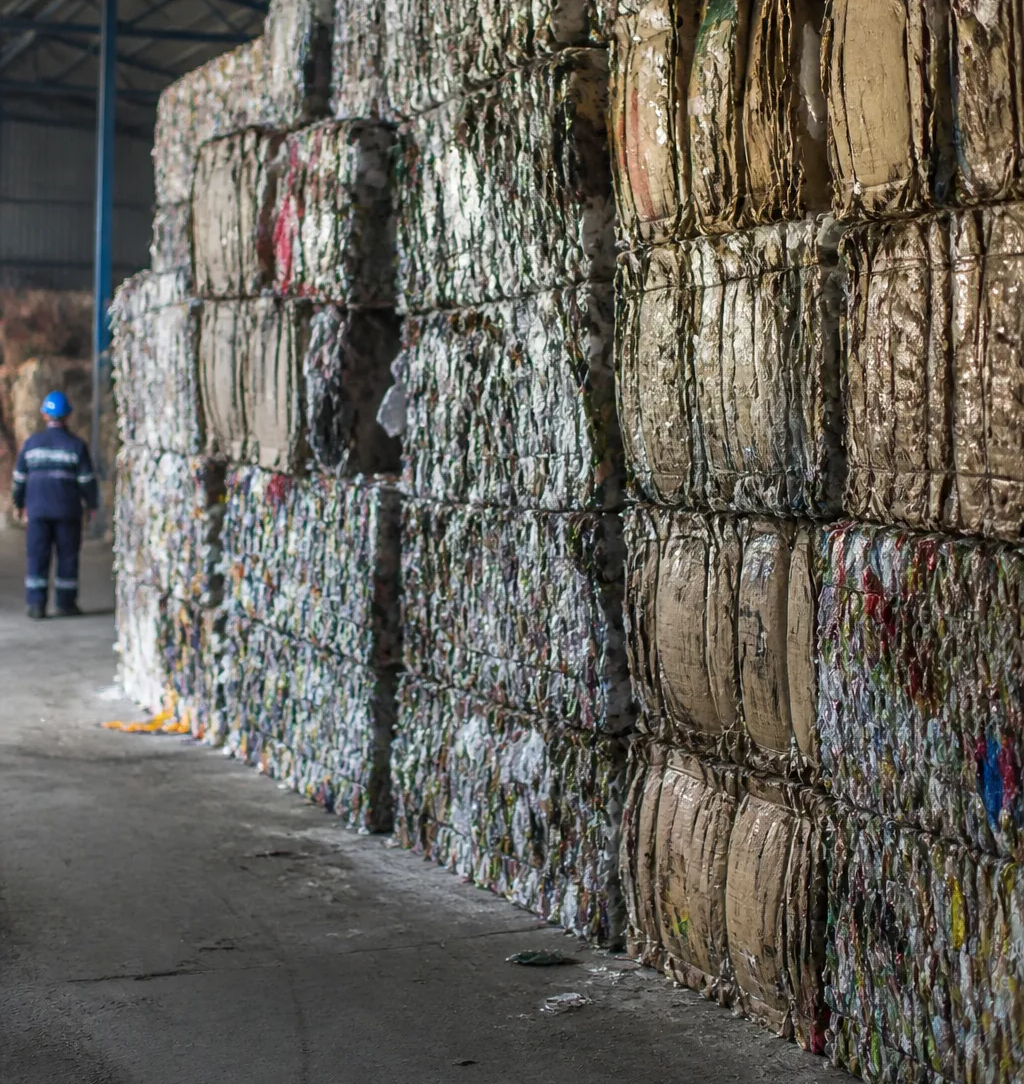
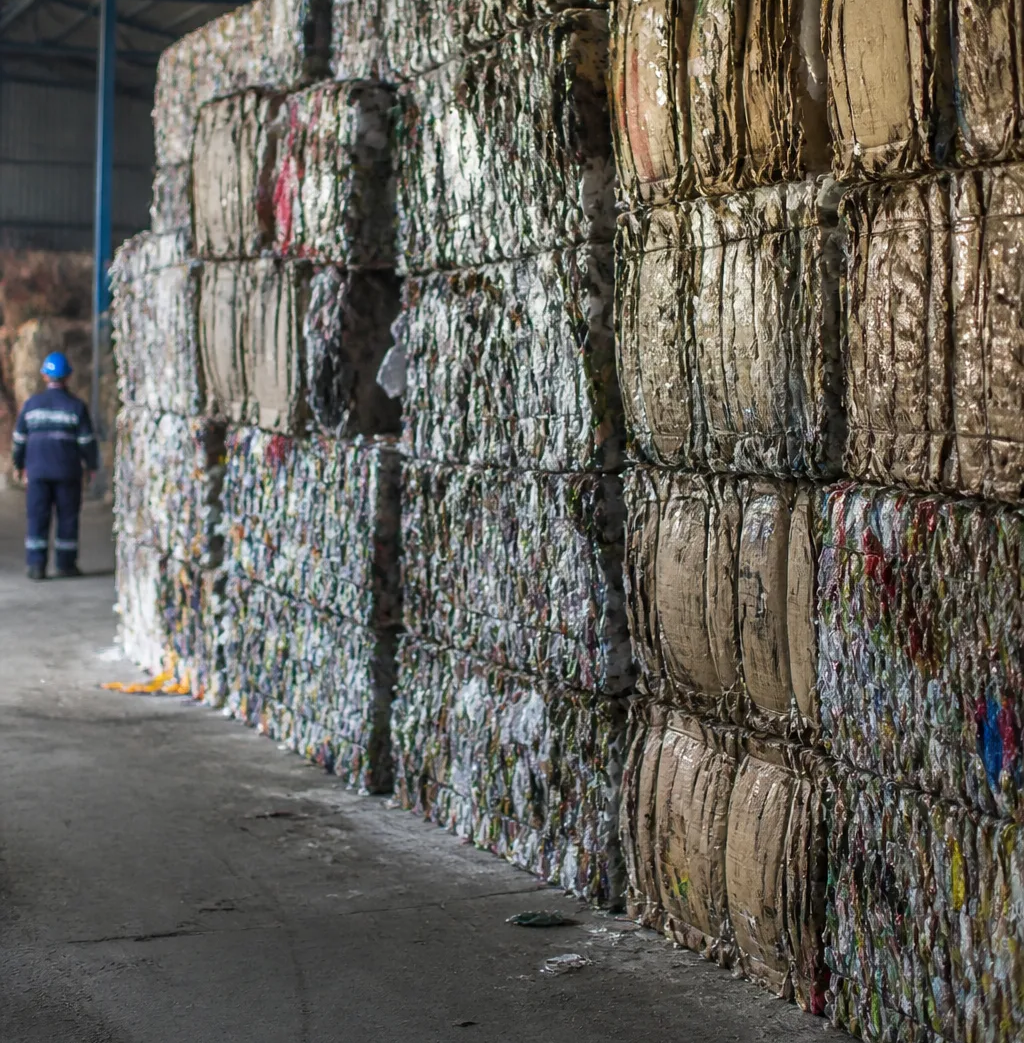
version inicial

diff --git a/app.py b/app.py
@@ -81,20 +81,20 @@ CUSTOM_CSS = """
         color: #1E293B;
     }
 
-    /* Fondo principal y espaciado compacto */
+    /* Fondo principal y espaciado que evita colisión con el menú superior */
     .stApp {
         background-color: #F8FAF9;
     }
     
     .block-container {
-        padding-top: 1.8rem !important;
-        padding-bottom: 2rem !important;
+        padding-top: 5.2rem !important;
+        padding-bottom: 2.5rem !important;
         max-width: 1200px;
     }
 
-    /* Ocultar barra superior por defecto si se desea */
+    /* Barra superior de Streamlit limpia */
     header[data-testid="stHeader"] {
-        background-color: rgba(248, 250, 249, 0.85);
+        background-color: rgba(248, 250, 249, 0.92);
         backdrop-filter: blur(8px);
     }
 
@@ -753,14 +753,14 @@ def view_contactenos():
             """
             <div class="gac-card gac-card-highlight">
                 <h4 style="color: #1B4332; margin-top: 0; font-size: 1.15rem; font-weight: 700;">
-                    Gestiones Ambientales del Caribe SAS (GAC SAS)
+                    Gestiones Ambientales del Caribe SAS
                 </h4>
                 <div style="margin-top: 1rem;">
                     <div style="margin-bottom: 0.85rem;">
                         <span style="font-size: 1.2rem; margin-right: 0.4rem;">📞</span>
                         <strong>Teléfono / WhatsApp:</strong><br/>
                         <a href="tel:+573016226317" style="color: #2D6A4F; font-weight: 600; text-decoration: none; margin-left: 1.8rem;">
-                            +57 301 622 6317
+                            +57 301 622 63 17
                         </a>
                     </div>
                     <div style="margin-bottom: 0.85rem;">
@@ -810,7 +810,7 @@ def view_contactenos():
                     Formulario de Contacto Corporativo
                 </div>
                 <div style="font-size: 0.82rem; color: #64748B; margin-bottom: 1rem;">
-                    Complete los siguientes campos y nuestro equipo técnico se pondrá en contacto a la brevedad.
+                    Complete los siguientes campos y nuestro equipo se pondrá en contacto.
                 </div>
             """,
             unsafe_allow_html=True,
